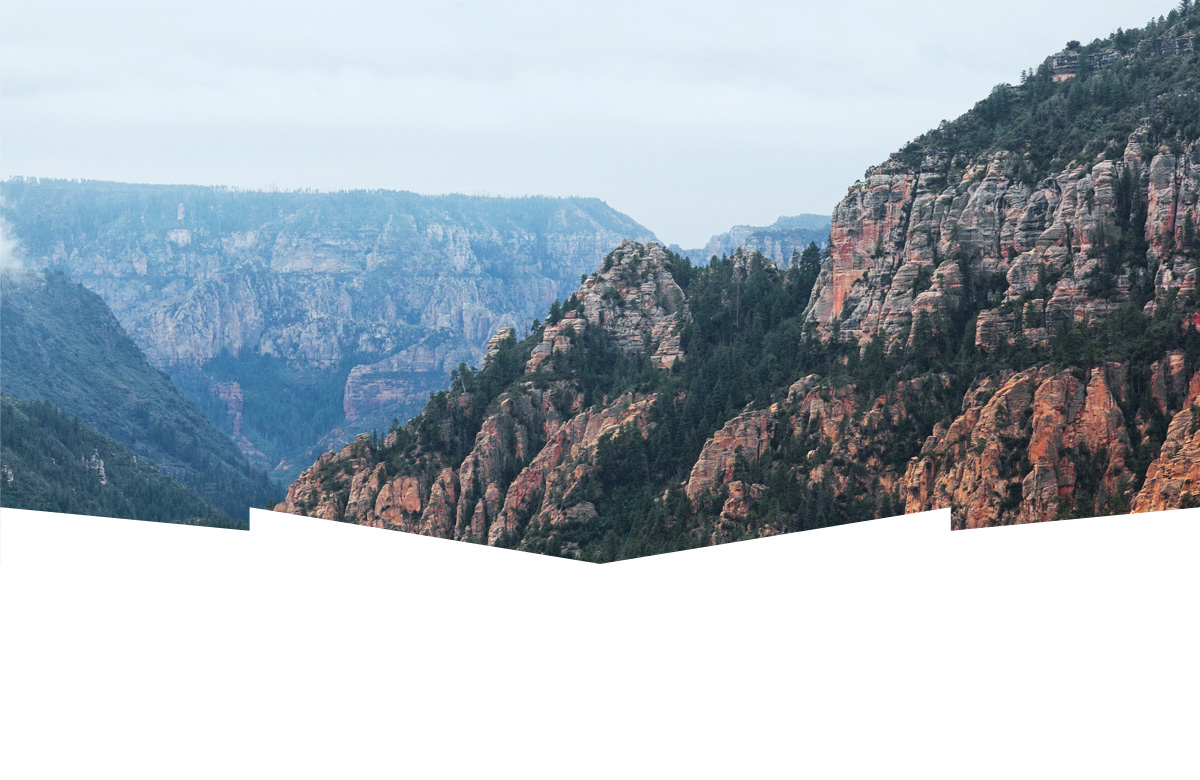
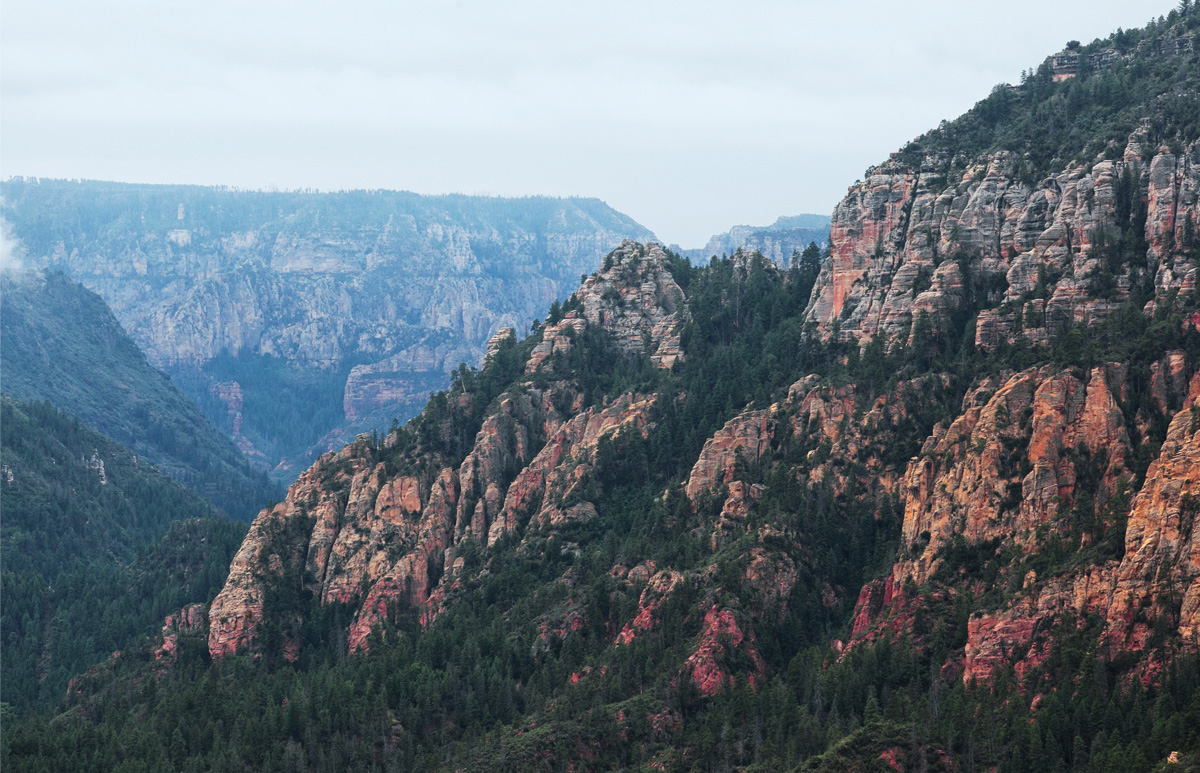
правки на главной

diff --git a/css/style.css b/css/style.css
@@ -9,6 +9,7 @@ body{
 }
 
 .container{
+  position: relative;
   width: 1200px;
   margin: 0 auto;
   outline: 1px solid black;
@@ -45,7 +46,7 @@ nav ul::after{
 }
 
 nav li{
-  width: 240px;
+  width: 170px;
   margin-top: 13px;
   margin-bottom: 19px;
   outline: 1px solid black;
@@ -68,26 +69,16 @@ nav a:active{
   color: #b2b2b2;
 }
 
-.nav-info{
+nav li:nth-child(1), nav li:nth-child(2){
   float: left;
   margin-left: 72px;
   text-align: left;
 }
 
-.nav-photo{
-  float: left;
-  text-align: left;
-}
-
-.nav-map{
-  float: left;
-  margin-left: 91px;
-  text-align: right;
-}
-
-.nav-hotels{
+nav li:nth-child(3), nav li:nth-child(4){
   float: right;
-  margin-right: 31px;
+  margin-right: 30px;
+  margin-left: 45px;
   text-align: right;
 }
 
@@ -103,8 +94,18 @@ nav a:active{
   margin-bottom: 53px;
   padding-top: 73px;
   background: #e4f1fa url("../img/background.jpg") no-repeat;
-  background-position: 0% 52%;
+  background-position: 0% 22%;
   outline: 1px solid black;
+}
+
+.greetin::after{
+  content: "";
+  position: absolute;
+  width: 1200px;
+  height: 57px;
+  background: url("../img/shape.png") no-repeat;
+  top: 0;
+  left: 0;
 }
 
 .greeting-img{
@@ -112,10 +113,11 @@ nav a:active{
   margin-bottom: 135px;
   margin-left: auto;
   margin-right: auto;
+  padding-bottom: 76px;
   outline: 1px solid black;
 }
 
-.greeting-text{
+.about-Sedona{
   width: 574px;
   margin-bottom: 50px;
   margin-left: auto;
@@ -123,7 +125,7 @@ nav a:active{
   outline: 1px solid black;
 }
 
-.greeting-text b{
+.about-Sedona b{
   display: block;
   width: 445px;
   margin: 0 auto;
@@ -134,7 +136,7 @@ nav a:active{
   outline: 1px solid black;
 }
 
-.greeting-text p{
+.about-Sedona p{
   display: block;
   width: 495px;
   margin: 0 auto;
@@ -171,7 +173,7 @@ nav a:active{
 
 .blue-block p{
   display: block;
-  width: 309.5px;
+  width: 309px;
   margin: 0 auto;
   margin-top: 23px;
   font-size: 14px;
@@ -304,10 +306,10 @@ nav a:active{
 .search-btn{
   display: block;
   width: 568px;
-  height: 86px;
   margin: 0 auto;
   margin-top: 47px;
   padding-top: 30px;
+  padding-bottom: 30px;
   box-sizing: border-box;
   font-size: 21px;
   font-weight: bold;

diff --git a/index.html b/index.html
@@ -12,17 +12,17 @@
       <header>
           <nav>
             <ul>
-              <li class="nav-info">
+              <li>
                 <a href="#">Информация</a>
               </li>
-              <li class="nav-photo">
+              <li>
                 <a href="#">Фото и видео</a>
               </li>
-              <li class="nav-map">
-                <a href="#">Карта штата</a>
-              </li>
-              <li class="nav-hotels">
+              <li>
                 <a href="#">Гостиницы</a>
+              </li>
+              <li>
+                <a href="#">Карта штата</a>
               </li>
             </ul>
           </nav>
@@ -37,10 +37,10 @@
             <div class="greeting-img">
               <img src="img/Welcome.png" width="458" height="352" alt="Welcome to Sedona!">
             </div>
-            <div class="greeting-text">
+          </div>
+          <div class="about-Sedona">
               <b>Седона — небольшой городок в Аризоне, заслуживающий большего!</b>
               <p>Рассмотрим 5 причин, по которым Седона круче, чем Гранд Каньон!</p>
-            </div>
           </div>
           <div class="first-reasons">
             <div class="blue-block">
